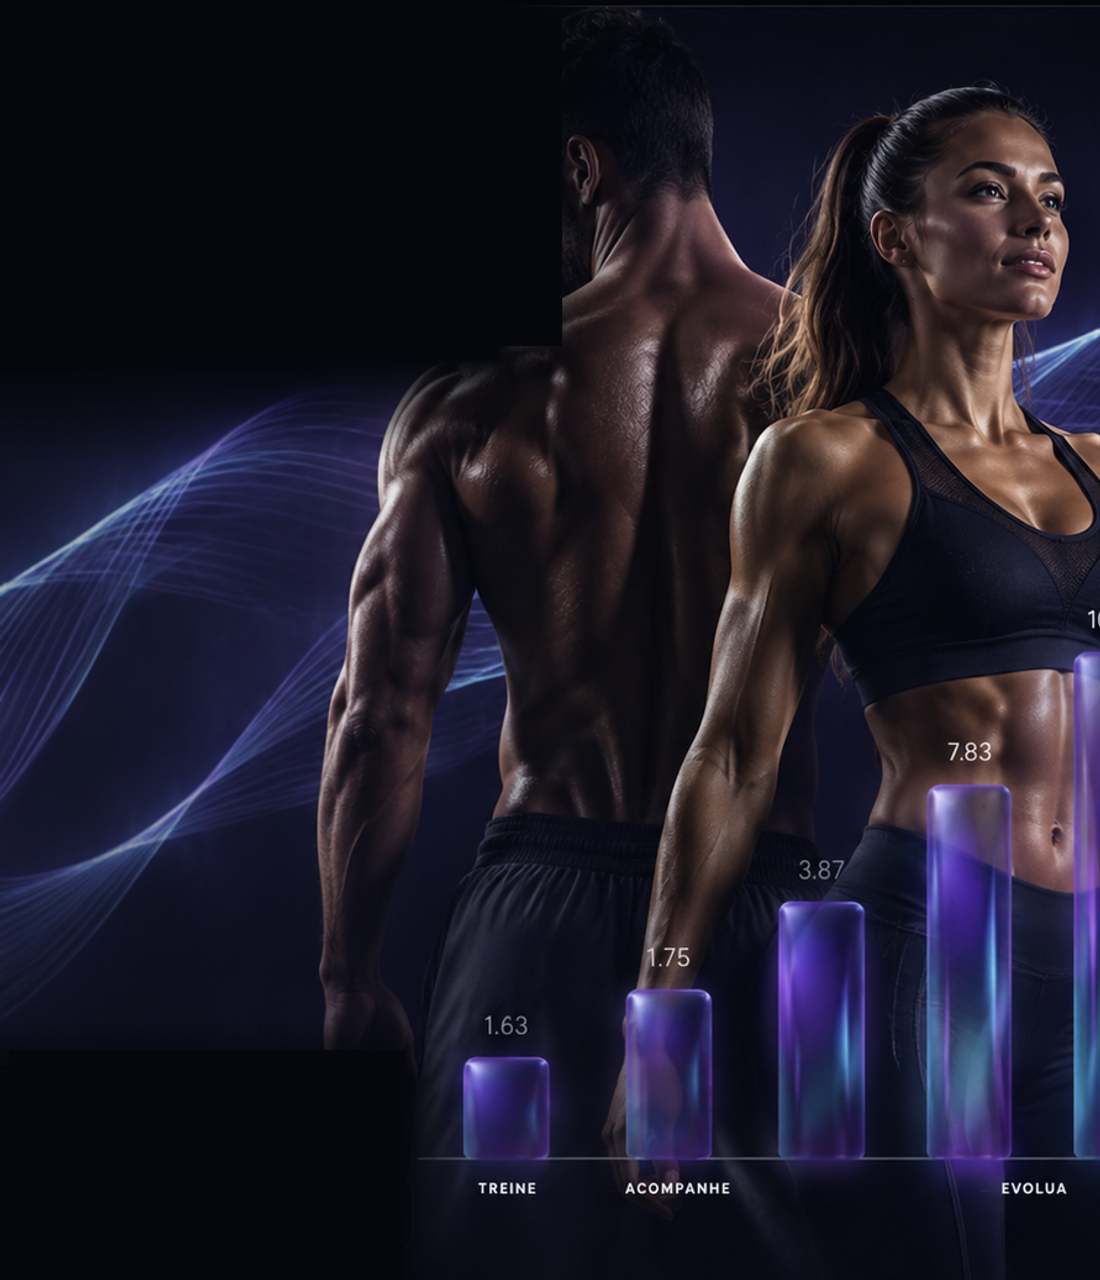
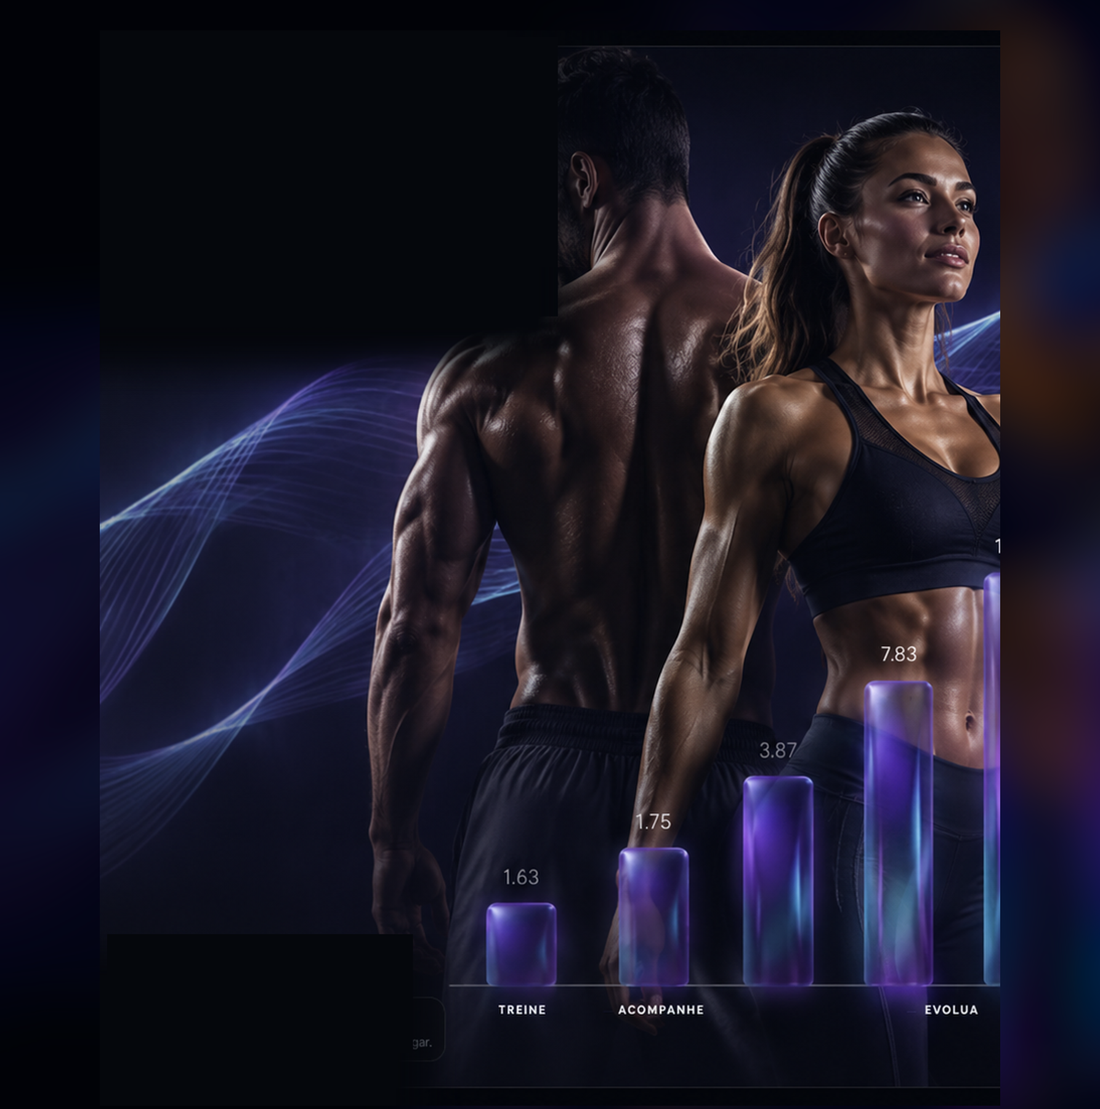
ajuste

diff --git a/src/styles/auth.css b/src/styles/auth.css
@@ -383,14 +383,14 @@
   background: #05070c;
 }
 
-/* Prioridade: não cortar personagens → contain + fundo escuro */
+/* Asset no AR do painel (~0.99 @ 1440×900) com margem na arte → cover sem letterbox no layout */
 .login-hero-art {
   position: absolute;
   inset: 0;
   width: 100%;
   height: 100%;
   display: block;
-  object-fit: contain;
+  object-fit: cover;
   object-position: center center;
   pointer-events: none;
   user-select: none;
@@ -883,11 +883,6 @@
   .auth-split__privacy {
     display: flex;
   }
-
-  .login-hero-art {
-    object-fit: contain;
-    object-position: center center;
-  }
 }
 
 @media (min-width: 1024px) {
@@ -920,12 +915,6 @@
   .auth-login-card {
     width: min(100%, 400px);
     padding: 2.25rem 2rem 1.9rem;
-  }
-
-  /* Em viewports largos a arte ~3:2 encaixa melhor; contain ainda prioriza rostos */
-  .login-hero-art {
-    object-fit: contain;
-    object-position: center center;
   }
 }
 

diff --git a/src/components/auth/AuthLayout.jsx b/src/components/auth/AuthLayout.jsx
@@ -33,15 +33,15 @@ export default function AuthLayout({
                 <picture>
                   <source
                     media="(max-width: 1023px)"
-                    srcSet="/branding/evoluafit-login-hero-tablet.png"
+                    srcSet="/branding/evoluafit-login-hero-tablet.png?v=panel-ar"
                   />
                   <source
                     media="(min-width: 1440px)"
-                    srcSet="/branding/evoluafit-login-hero-desktop.png"
+                    srcSet="/branding/evoluafit-login-hero-desktop.png?v=panel-ar"
                   />
                   <img
                     className="login-hero-art"
-                    src="/branding/evoluafit-login-hero-approved.png"
+                    src="/branding/evoluafit-login-hero-approved.png?v=panel-ar"
                     alt=""
                     decoding="async"
                     fetchPriority="high"
